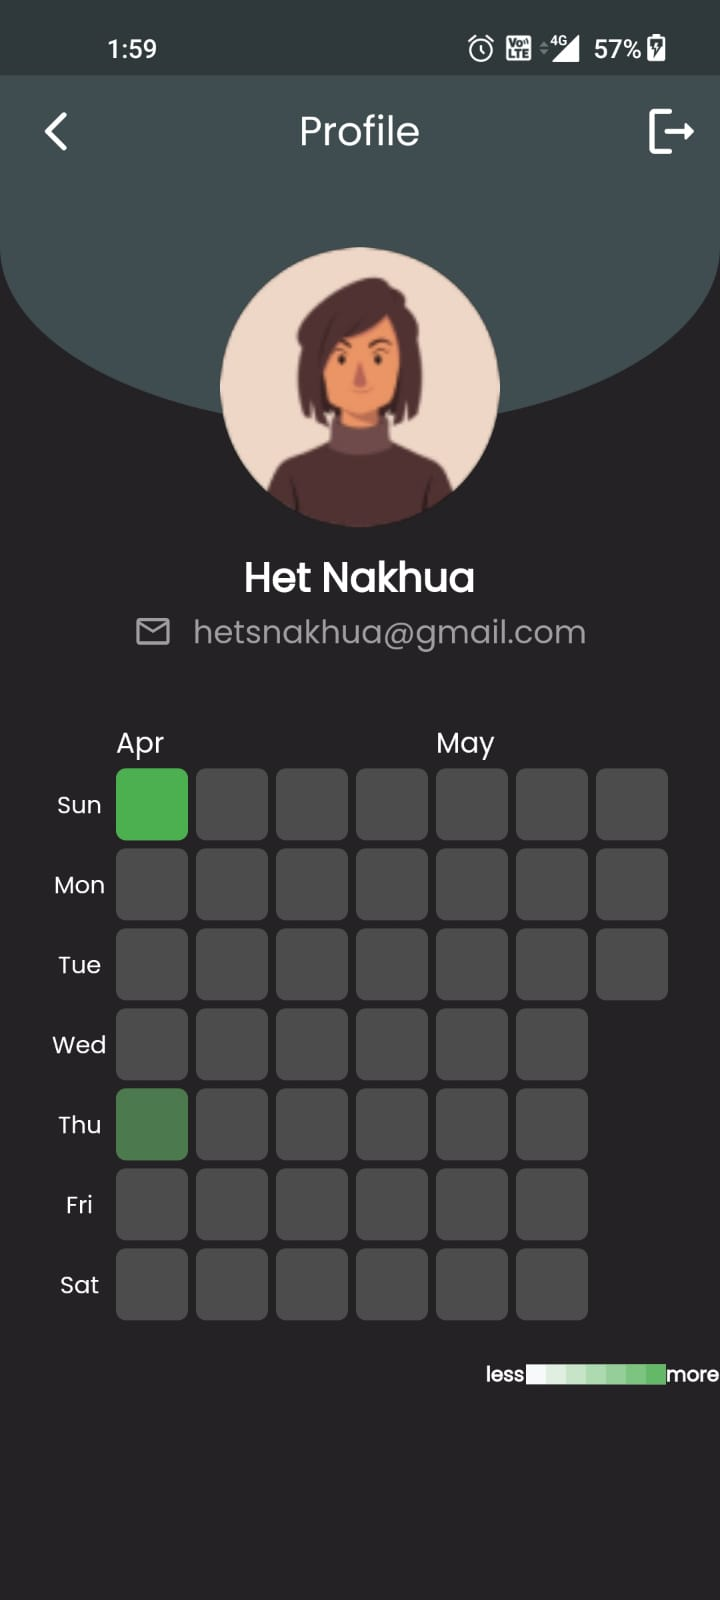
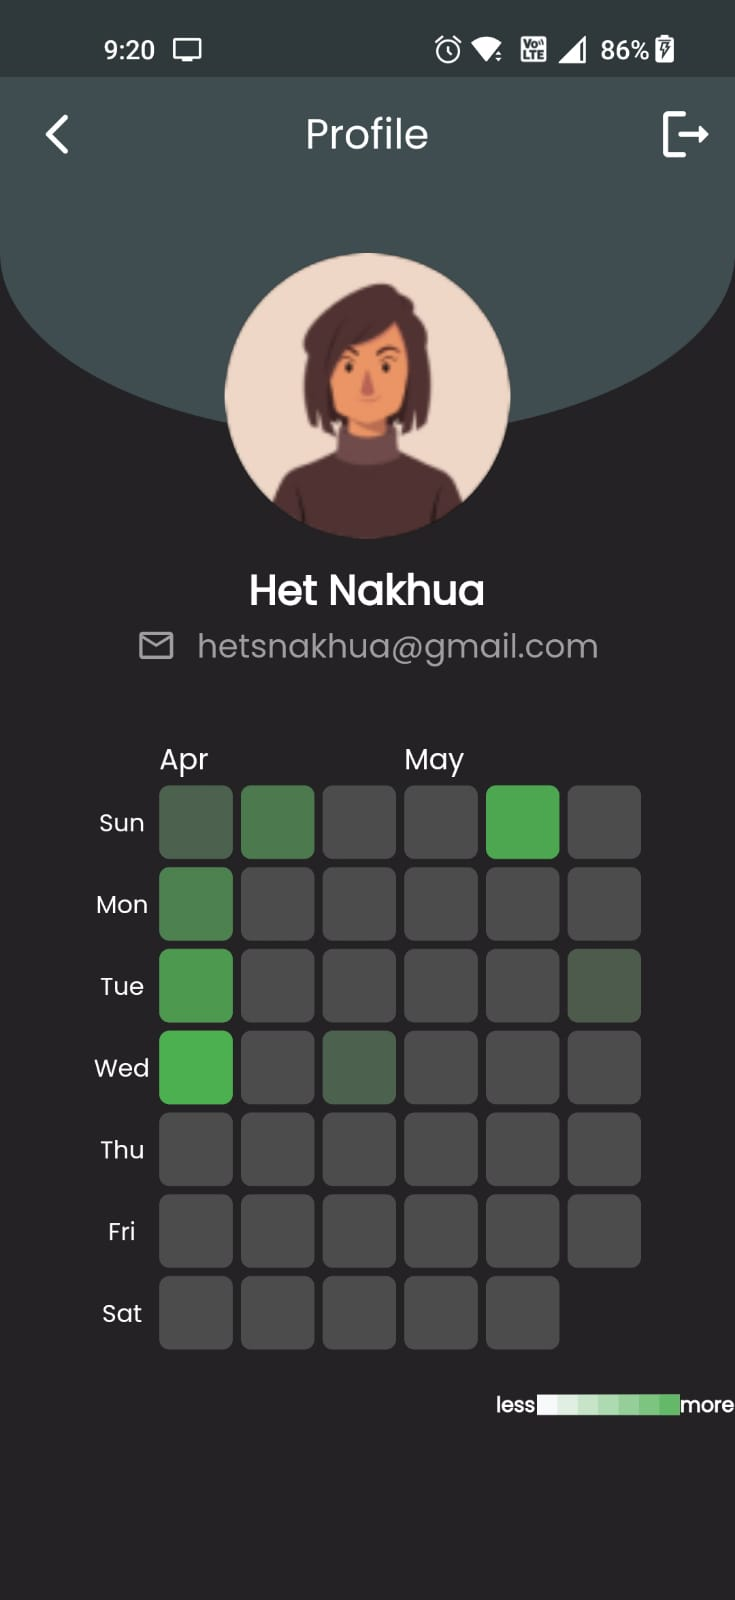
fix overflow, update ui

diff --git a/lib/screens/Track/track.dart b/lib/screens/Track/track.dart
@@ -84,7 +84,7 @@ class _TrackingState extends State<Tracking>
     return SafeArea(
       child: SingleChildScrollView(
         child: SizedBox(
-          height: MediaQuery.of(context).size.height + 200,
+          height: MediaQuery.of(context).size.height + 240,
           child: Scaffold(
             appBar: AppBar(
               backgroundColor: raisinBlack,
@@ -107,105 +107,108 @@ class _TrackingState extends State<Tracking>
                     style: TextStyle(fontSize: 24, fontWeight: FontWeight.w500),
                   ),
                   SizedBox(height: 16),
-                  Expanded(
-                    child: ListView.builder(
-                        scrollDirection: Axis.horizontal,
-                        itemCount: goalList.length + 1,
-                        itemBuilder: (context, index) {
-                          if (index == 0) {
-                            return GestureDetector(
-                              onTap: () {
-                                showModalBottomSheet(
-                                    context: context,
-                                    builder: (context) {
-                                      return Container(
-                                        height: 400,
-                                        padding: EdgeInsets.symmetric(
-                                            horizontal: 24, vertical: 24),
-                                        decoration: BoxDecoration(
-                                          color: black,
-                                          borderRadius:
-                                              BorderRadius.circular(16),
-                                        ),
-                                        child: Column(
-                                          children: [
-                                            inputText('Goal', 'eg: Buy a gift',
-                                                _category, false),
-                                            inputText('Amount', 'eg: 2000',
-                                                _amount, false),
-                                            // submit(
-                                            //     context,
-                                            //     _category.text.trim(),
-                                            //     _amount.text
-                                            //         ),
-                                          ],
-                                        ),
-                                      );
-                                    });
-                              },
-                              child: SizedBox(
-                                // height: 120,
-                                child: Row(
-                                  children: [
-                                    DottedBorder(
-                                      borderType: BorderType.RRect,
-                                      dashPattern: [3, 3],
-                                      color: midnightGreenLight,
-                                      strokeWidth: 4,
-                                      radius: Radius.circular(16),
-                                      child: Container(
-                                        width: 100,
-                                        // height: 120,
-                                        child: Center(
-                                          child: Icon(
-                                            Icons.add_circle_outline_outlined,
-                                            size: 36,
+                  SizedBox(
+                    height: 100,
+                    child: Expanded(
+                      child: ListView.builder(
+                          scrollDirection: Axis.horizontal,
+                          itemCount: goalList.length + 1,
+                          itemBuilder: (context, index) {
+                            if (index == 0) {
+                              return GestureDetector(
+                                onTap: () {
+                                  showModalBottomSheet(
+                                      context: context,
+                                      builder: (context) {
+                                        return Container(
+                                          height: 400,
+                                          padding: EdgeInsets.symmetric(
+                                              horizontal: 24, vertical: 24),
+                                          decoration: BoxDecoration(
+                                            color: black,
+                                            borderRadius:
+                                                BorderRadius.circular(16),
+                                          ),
+                                          child: Column(
+                                            children: [
+                                              inputText('Goal', 'eg: Buy a gift',
+                                                  _category, false),
+                                              inputText('Amount', 'eg: 2000',
+                                                  _amount, false),
+                                              // submit(
+                                              //     context,
+                                              //     _category.text.trim(),
+                                              //     _amount.text
+                                              //         ),
+                                            ],
+                                          ),
+                                        );
+                                      });
+                                },
+                                child: SizedBox(
+                                  // height: 120,
+                                  child: Row(
+                                    children: [
+                                      DottedBorder(
+                                        borderType: BorderType.RRect,
+                                        dashPattern: [3, 3],
+                                        color: midnightGreenLight,
+                                        strokeWidth: 4,
+                                        radius: Radius.circular(16),
+                                        child: Container(
+                                          width: 100,
+                                          // height: 120,
+                                          child: Center(
+                                            child: Icon(
+                                              Icons.add_circle_outline_outlined,
+                                              size: 36,
+                                            ),
                                           ),
                                         ),
                                       ),
-                                    ),
-                                    SizedBox(width: 16),
-                                  ],
+                                      SizedBox(width: 16),
+                                    ],
+                                  ),
                                 ),
+                              );
+                            }
+                            return Container(
+                              margin: EdgeInsets.only(right: 16),
+                              width: 100,
+                              height: 120,
+                              decoration: BoxDecoration(
+                                border: Border.all(
+                                  color: midnightGreenLight,
+                                  width: 3,
+                                ),
+                                borderRadius: BorderRadius.circular(16),
+                              ),
+                              child: Column(
+                                mainAxisAlignment: MainAxisAlignment.center,
+                                crossAxisAlignment: CrossAxisAlignment.center,
+                                children: [
+                                  SizedBox(height: 5),
+                                  Text(
+                                    goalList[index - 1],
+                                    style: TextStyle(
+                                      fontSize: 14,
+                                      fontWeight: FontWeight.w400,
+                                    ),
+                                    textAlign: TextAlign.center,
+                                  ),
+                                  SizedBox(height: 2),
+                                  Text(
+                                    '${goalListAmt[index - 1]}',
+                                    style: TextStyle(
+                                      fontSize: 10,
+                                      fontWeight: FontWeight.w400,
+                                    ),
+                                  ),
+                                ],
                               ),
                             );
-                          }
-                          return Container(
-                            margin: EdgeInsets.only(right: 16),
-                            width: 100,
-                            height: 120,
-                            decoration: BoxDecoration(
-                              border: Border.all(
-                                color: midnightGreenLight,
-                                width: 3,
-                              ),
-                              borderRadius: BorderRadius.circular(16),
-                            ),
-                            child: Column(
-                              mainAxisAlignment: MainAxisAlignment.center,
-                              crossAxisAlignment: CrossAxisAlignment.center,
-                              children: [
-                                SizedBox(height: 5),
-                                Text(
-                                  goalList[index - 1],
-                                  style: TextStyle(
-                                    fontSize: 14,
-                                    fontWeight: FontWeight.w400,
-                                  ),
-                                  textAlign: TextAlign.center,
-                                ),
-                                SizedBox(height: 2),
-                                Text(
-                                  '${goalListAmt[index - 1]}',
-                                  style: TextStyle(
-                                    fontSize: 10,
-                                    fontWeight: FontWeight.w400,
-                                  ),
-                                ),
-                              ],
-                            ),
-                          );
-                        }),
+                          }),
+                    ),
                   ),
                   SizedBox(height: 24),
 
@@ -235,7 +238,6 @@ class _TrackingState extends State<Tracking>
                     height: 120,
                     child: Row(
                       children: [
-                        SizedBox(width: 12),
                         StreamBuilder(
                             stream: homeController.getUserExpenseDetails(),
                             builder: (context, snapshot) {
@@ -388,7 +390,7 @@ class _TrackingState extends State<Tracking>
                     child: PageView(
                       controller: _pageController,
                       children: [
-                        investNowPage(context, 1, 'stock', 'assets/stock.svg'),
+                        investNowPage(context, 1, 'Stocks', 'assets/stock.svg'),
                         investNowPage(context, 2, 'FD', 'assets/fd.svg'),
                         investNowPage(
                             context, 3, 'Equity', 'assets/mutual.svg'),
@@ -405,6 +407,8 @@ class _TrackingState extends State<Tracking>
                         effect: ExpandingDotsEffect(
                           activeDotColor: midnightGreenLight,
                           dotColor: disabledGrey,
+                          dotHeight: 8.0,
+                          dotWidth: 8.0,
                         ),
                       ),
                     ],

diff --git a/lib/util/re_use.dart b/lib/util/re_use.dart
@@ -9,6 +9,7 @@ import 'package:flutterati_codeshastra/models/income.dart';
 import 'package:flutterati_codeshastra/screens/Home/controller/home_controller.dart';
 import 'package:get/get.dart';
 import 'package:google_fonts/google_fonts.dart';
+import 'package:flutter_svg/flutter_svg.dart';
 
 GestureDetector singInUp(BuildContext context, bool isLogin, Function clickMe) {
   return GestureDetector(
@@ -312,13 +313,19 @@ Container investNowPage(
       color: outerSpaceGrey,
       borderRadius: BorderRadius.circular(16),
     ),
-    child: Text(
-      topic,
-      textAlign: TextAlign.center,
-      style: TextStyle(
-        fontSize: 20,
-        fontWeight: FontWeight.w500,
-      ),
+    child: Column(
+      children: [
+        SvgPicture.asset(img, height: 80),
+        SizedBox(height: 8),
+        Text(
+          topic,
+          textAlign: TextAlign.center,
+          style: TextStyle(
+            fontSize: 20,
+            fontWeight: FontWeight.w500,
+          ),
+        ),
+      ],
     ),
   );
 }

diff --git a/lib/screens/Profile/heat_map.dart b/lib/screens/Profile/heat_map.dart
@@ -9,11 +9,14 @@ class MyHeatMap extends StatelessWidget {
   Widget build(BuildContext context) {
     return HeatMap(
       datasets: {
-        DateTime(2023, 4, 6): 3,
-        DateTime(2023, 4, 7): 7,
-        DateTime(2023, 4, 8): 10,
-        DateTime(2023, 4, 9): 13,
-        DateTime(2023, 4, 13): 6,
+        DateTime(2023, 4, 16): 3,
+        DateTime(2023, 4, 17): 7,
+        DateTime(2023, 4, 18): 10,
+        DateTime(2023, 4, 19): 13,
+        DateTime(2023, 4, 23): 6,
+        DateTime(2023, 5, 3): 3,
+        DateTime(2023, 5, 14): 12,
+        DateTime(2023, 5, 23): 2,
       },
       startDate: DateTime.now(),
       endDate: DateTime.now().add(Duration(days: 40)),

diff --git a/lib/screens/Home/home.dart b/lib/screens/Home/home.dart
@@ -66,7 +66,7 @@ class _HomeState extends State<Home> with SingleTickerProviderStateMixin {
     return SafeArea(
       child: SingleChildScrollView(
         child: SizedBox(
-          height: MediaQuery.of(context).size.height + 500,
+          height: MediaQuery.of(context).size.height + 400,
           child: Scaffold(
             appBar: AppBar(
               backgroundColor: Colors.transparent,

diff --git a/README.md b/README.md
@@ -2,7 +2,7 @@
 
 A new Flutter project.
 
-## About 
+## About s
 
 $pend$ense is a mobile app designed to provide a seamless user experience for students who are looking to manage their finances effectively. With this app, users can easily track their expenses, create budgets, manage their loans, and make informed decisions about their financial goals - all from the convenience of their mobile device.
 
@@ -28,6 +28,7 @@ Finally, $pend$ense keeps track of all the transactions and goals of its users, 
   <img src="assets/screens/loan_screen_bottom-sheet.jpg" height="600">
   <img src="assets/screens/track_screen.jpg" height="600">
   <img src="assets/screens/track_screen_bottom-sheet.jpg" height="600">
+  <img src="assets/screens/map_screen.jpg" height="600">
   <img src="assets/screens/stock_linked.jpg" height="600">
   <img src="assets/screens/forum_screen.jpg" height="600">
   <img src="assets/screens/sub-forum_screen.jpg" height="600">
